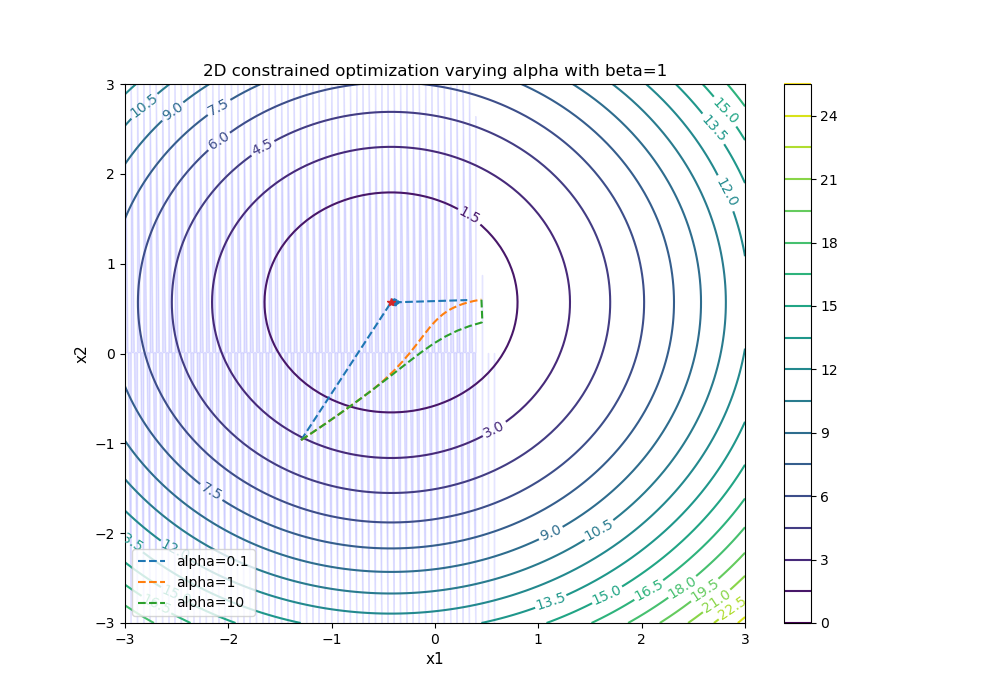
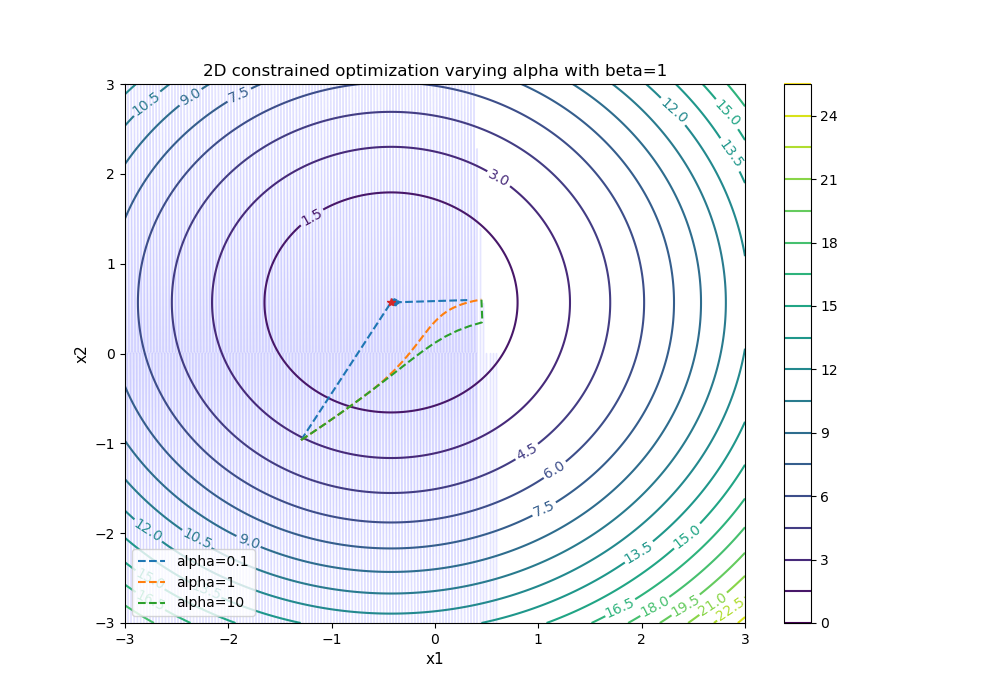
final 8.1 commit

diff --git a/2DToy.py b/2DToy.py
@@ -3,6 +3,12 @@ from torch.autograd import grad
 import matplotlib.pyplot as plt
 import numpy as np
 
+"""
+This file replicates the experiments in Section 8.1 of the Supplemental Material
+f(\theta) = ||\theta - \theta^*||^2 and g(\theta)=||a^T \theta + b||^2
+where \theta,\theta^*,a are in R^2 and b in R 
+"""
+
 def f1(theta1,theta2,theta_star):
     return torch.sqrt((theta1 - theta_star[0])**2 + (theta2-theta_star[1])**2)**2
 
@@ -35,7 +41,7 @@ def Toy2DExperiment(theta_init,theta_star,a,b,c,gamma=.1):
         return thetas
 
     # Experiment 1a
-    x = torch.linspace(-3, 3, 100)
+    x = torch.linspace(-3, 3, 200)
     X1, X2 = torch.meshgrid(x, x)
     Z1 = f1(X1,X2,theta_star)
 
@@ -47,7 +53,6 @@ def Toy2DExperiment(theta_init,theta_star,a,b,c,gamma=.1):
     ax = fig.add_subplot(111)
 
     # Add the halfspace to the plot
-    # cs = ax.contour(X1, X2, Z2, levels=[0],colors=['b'])
     ax.fill_between(X1.flatten(), X2.flatten(), c, where=Z2.flatten() <= c, color='b', alpha=0.1)
     
     # Add the contour plot of f
